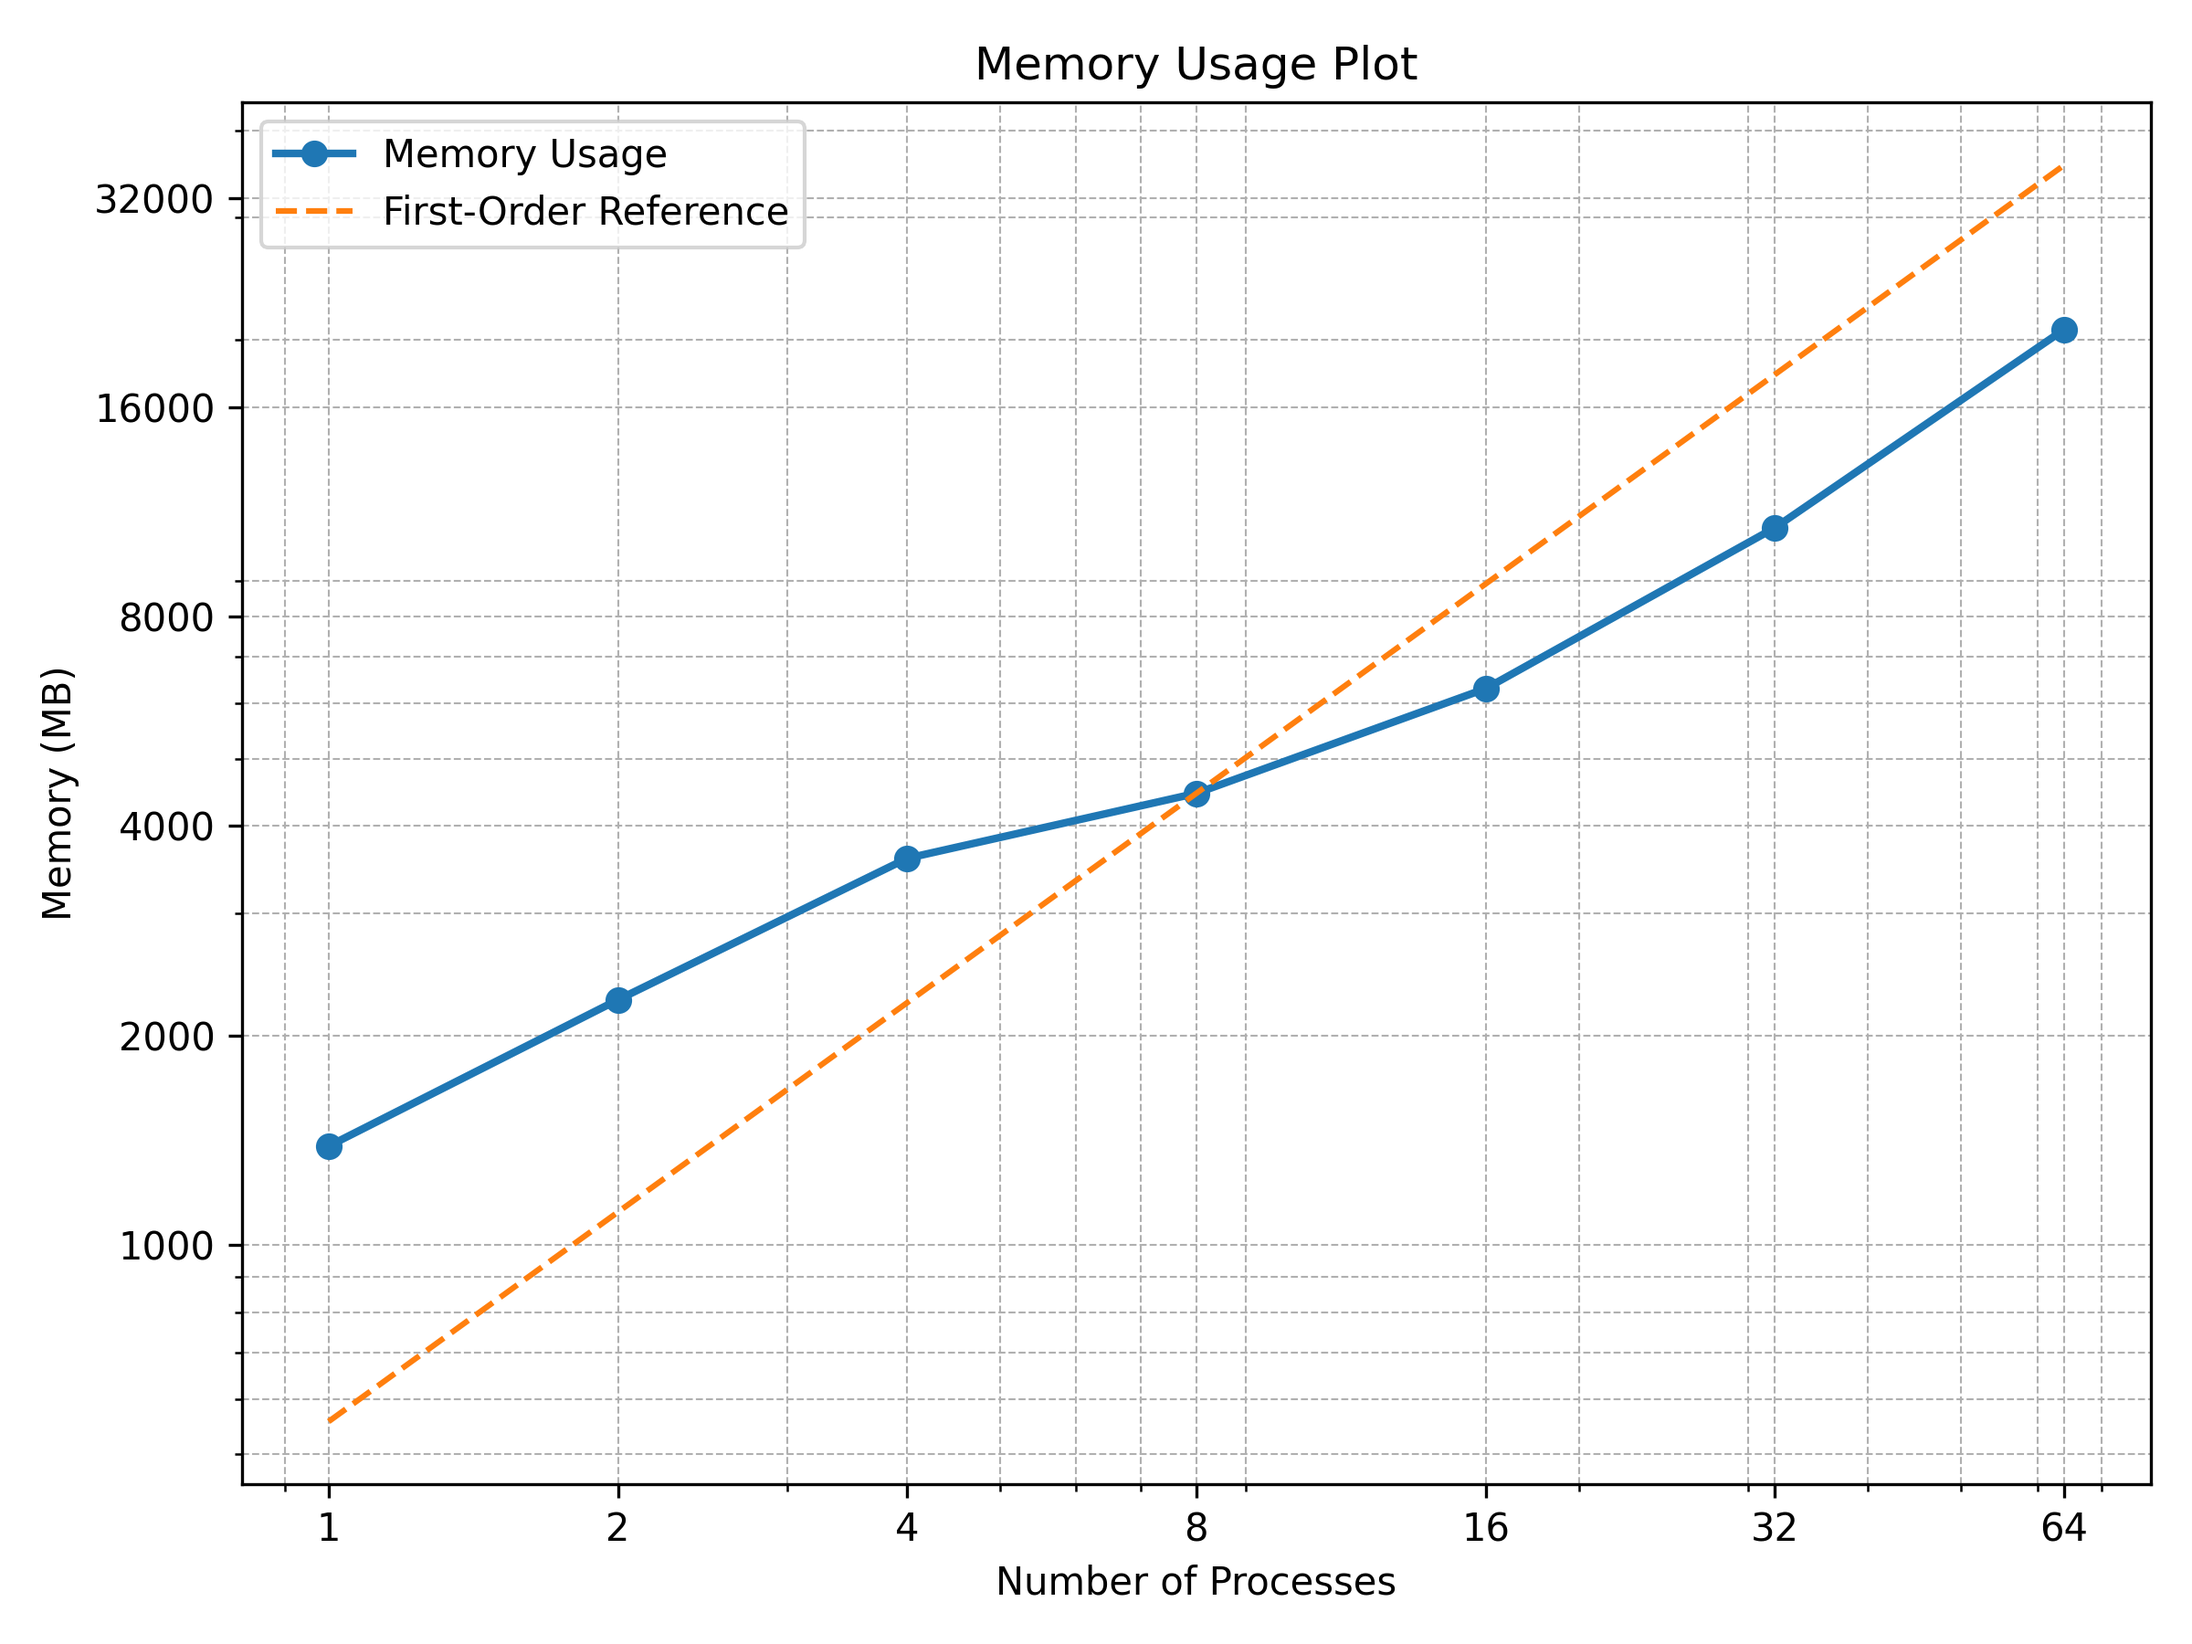
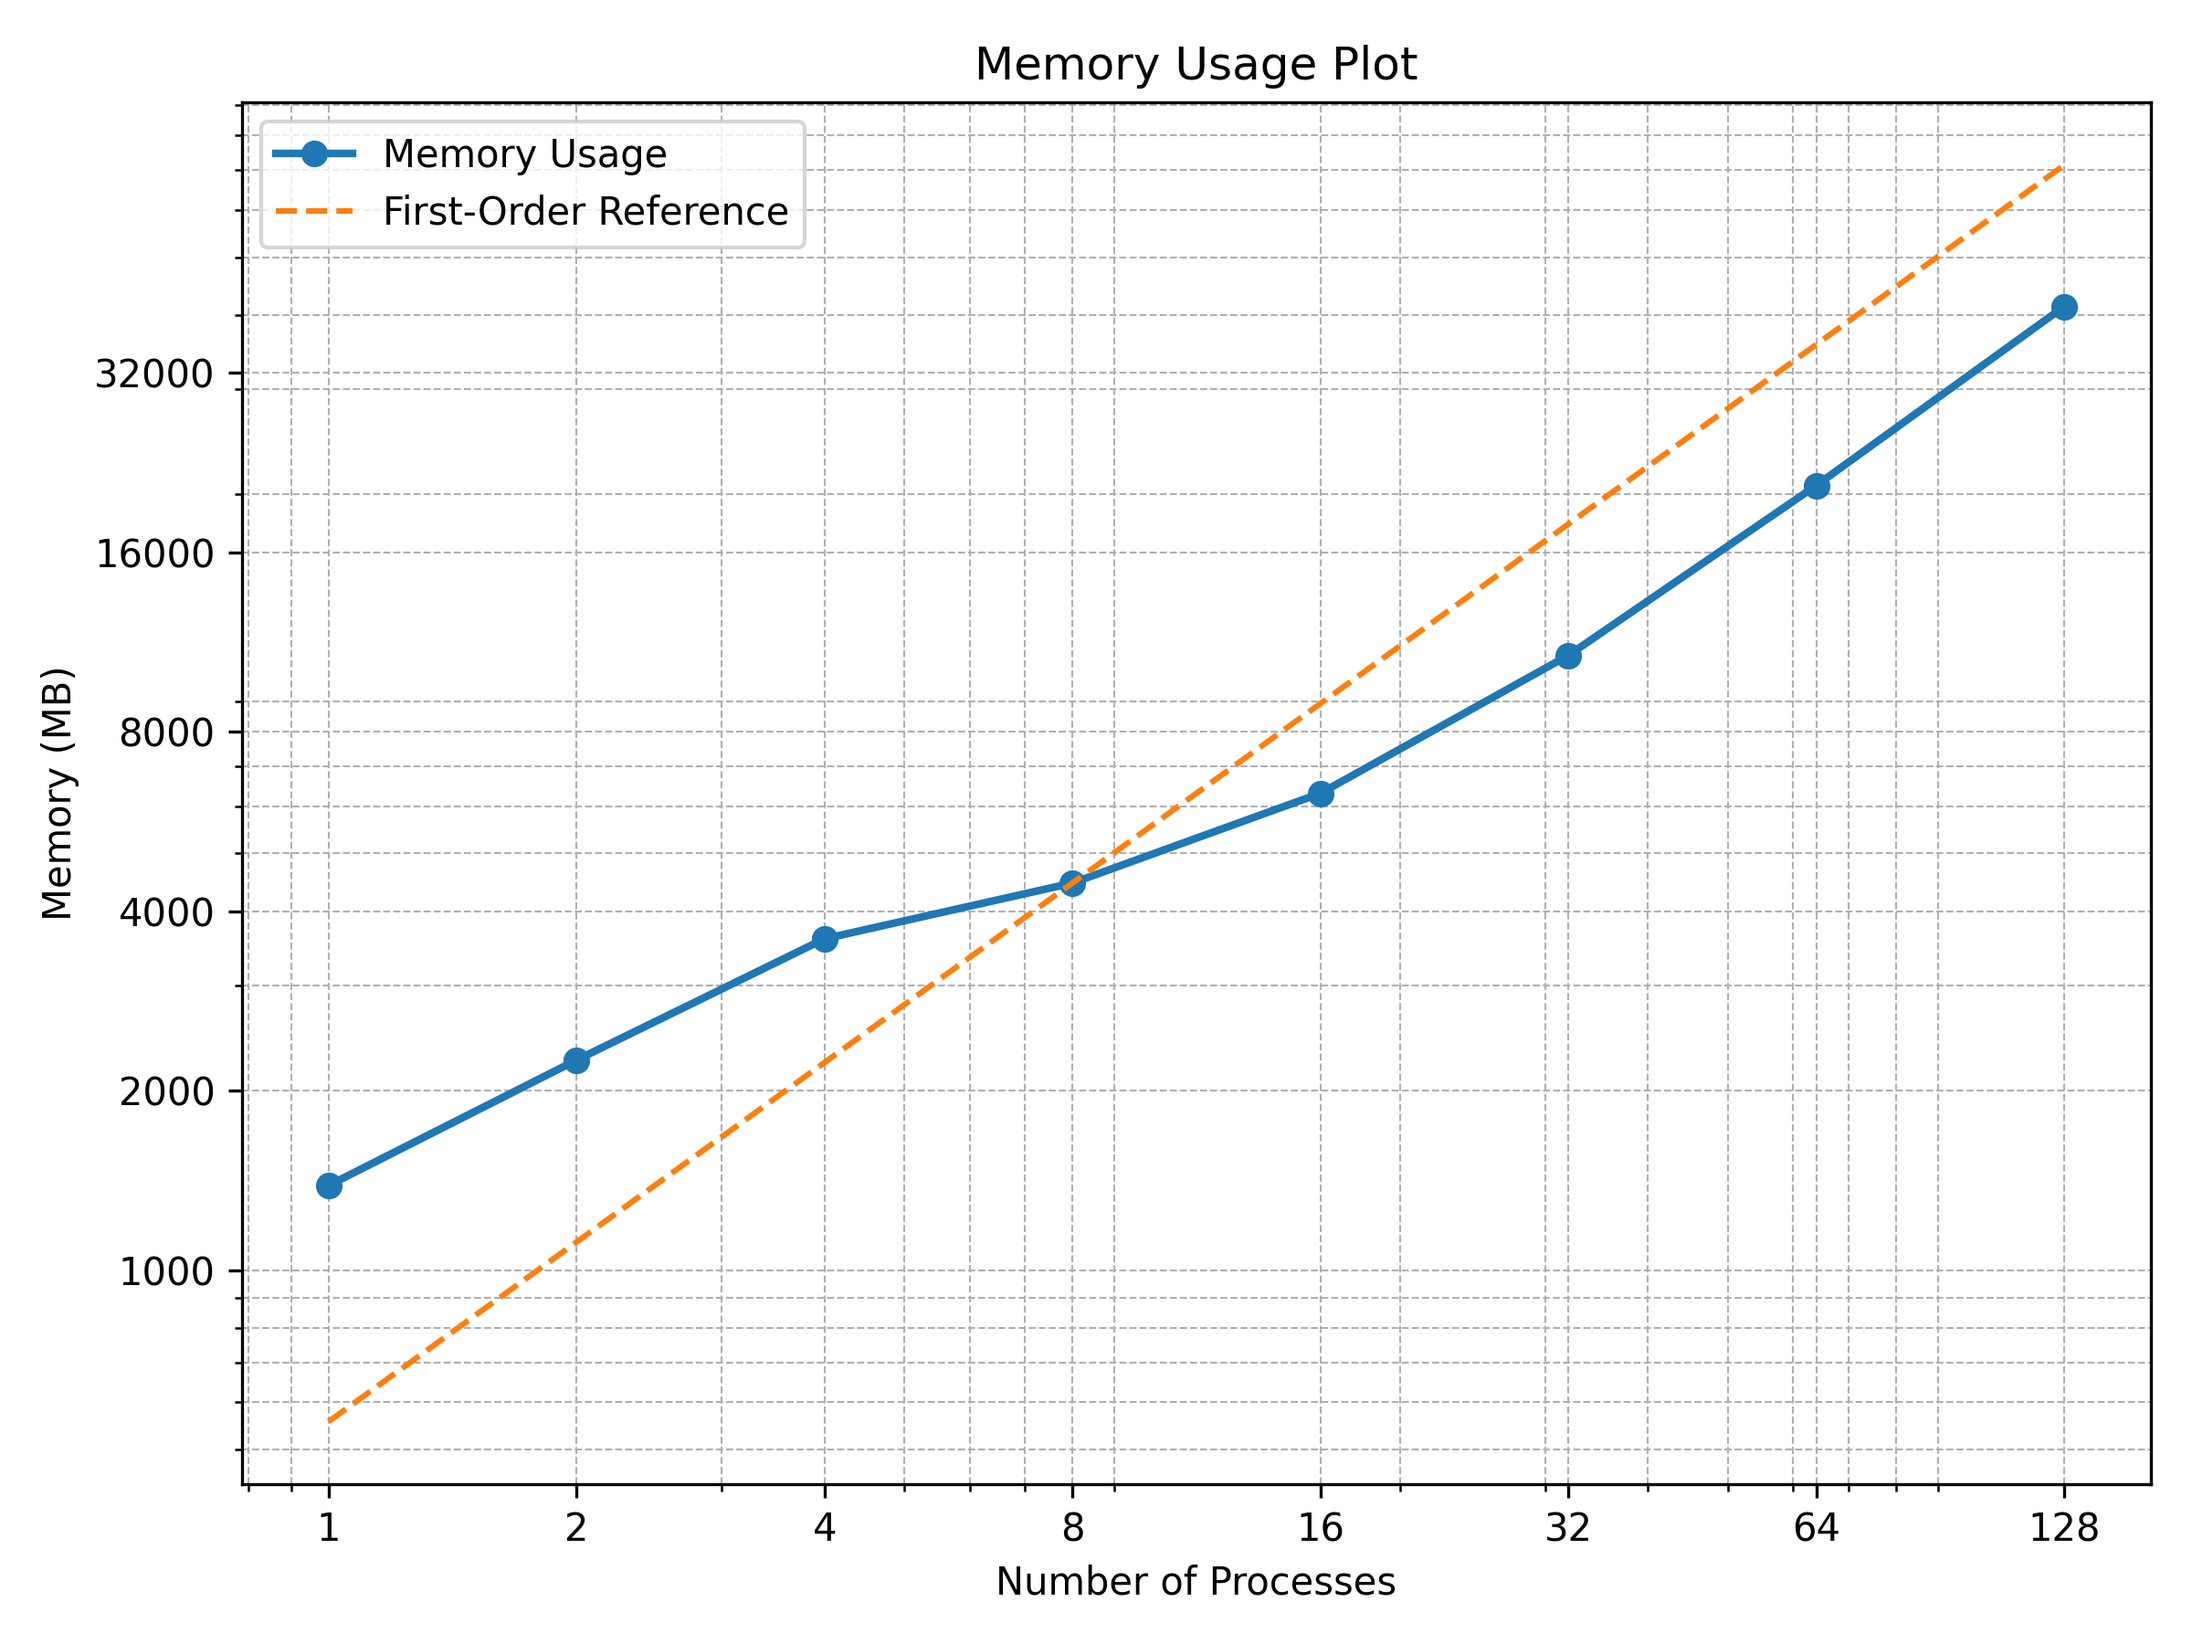
128 processes

diff --git a/scripts/scalability.py b/scripts/scalability.py
@@ -2,9 +2,9 @@ import numpy as np
 import matplotlib.pyplot as plt
 from matplotlib.ticker import NullFormatter
 
-processes = np.array([1, 2, 4, 8, 16, 32, 64])
-times = np.array([2422.912, 1336.381, 751.122, 436.718, 237.379, 122.979, 86.459])
-memory = np.array([1386.785, 2250.618, 3594.989, 4458.447, 6304.562, 10738.0, 20697.175])
+processes = np.array([1, 2, 4, 8, 16, 32, 64, 128])
+times = np.array([2422.912, 1336.381, 751.122, 436.718, 237.379, 122.979, 86.459, 340.4])
+memory = np.array([1386.785, 2250.618, 3594.989, 4458.447, 6304.562, 10738.0, 20697.175, 41313.585])
 
 plt.figure(figsize=(8, 6))
 plt.loglog(processes, times, marker='o', label='Numerical Time', linewidth=2)
